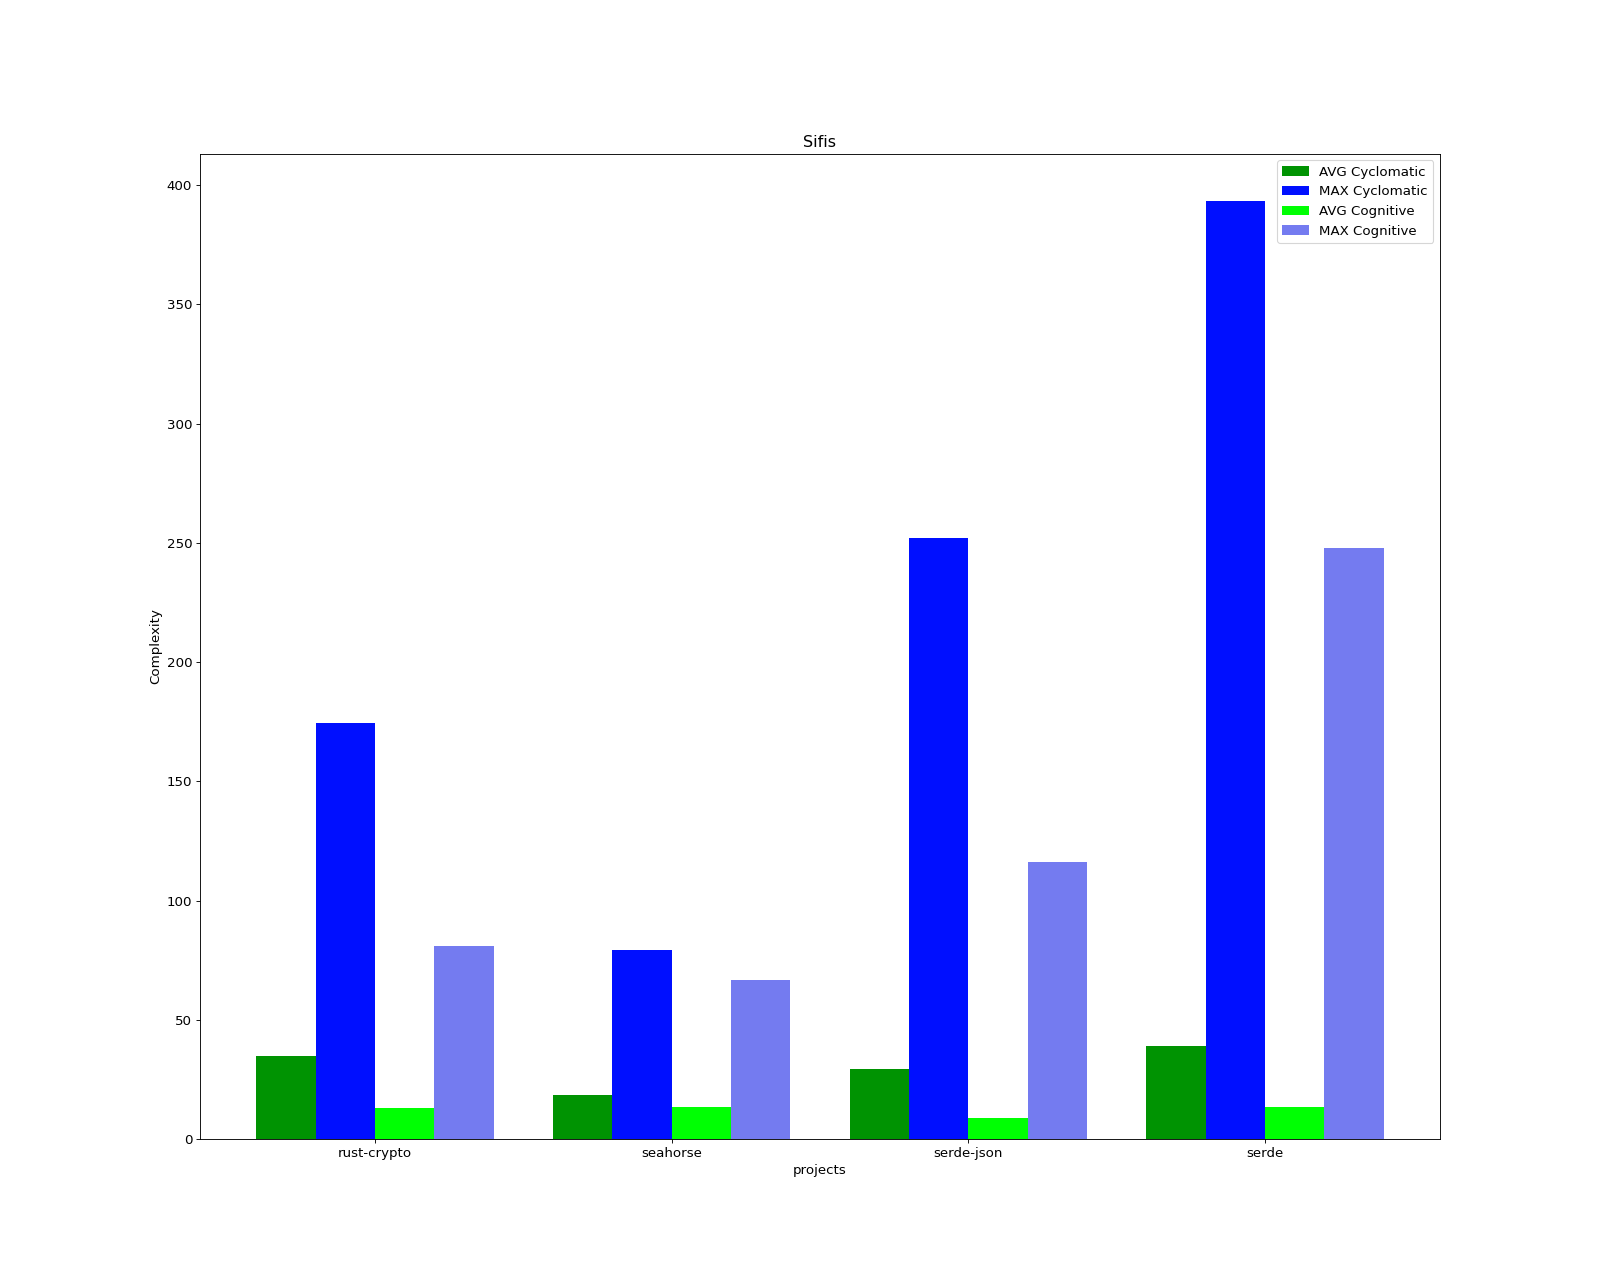
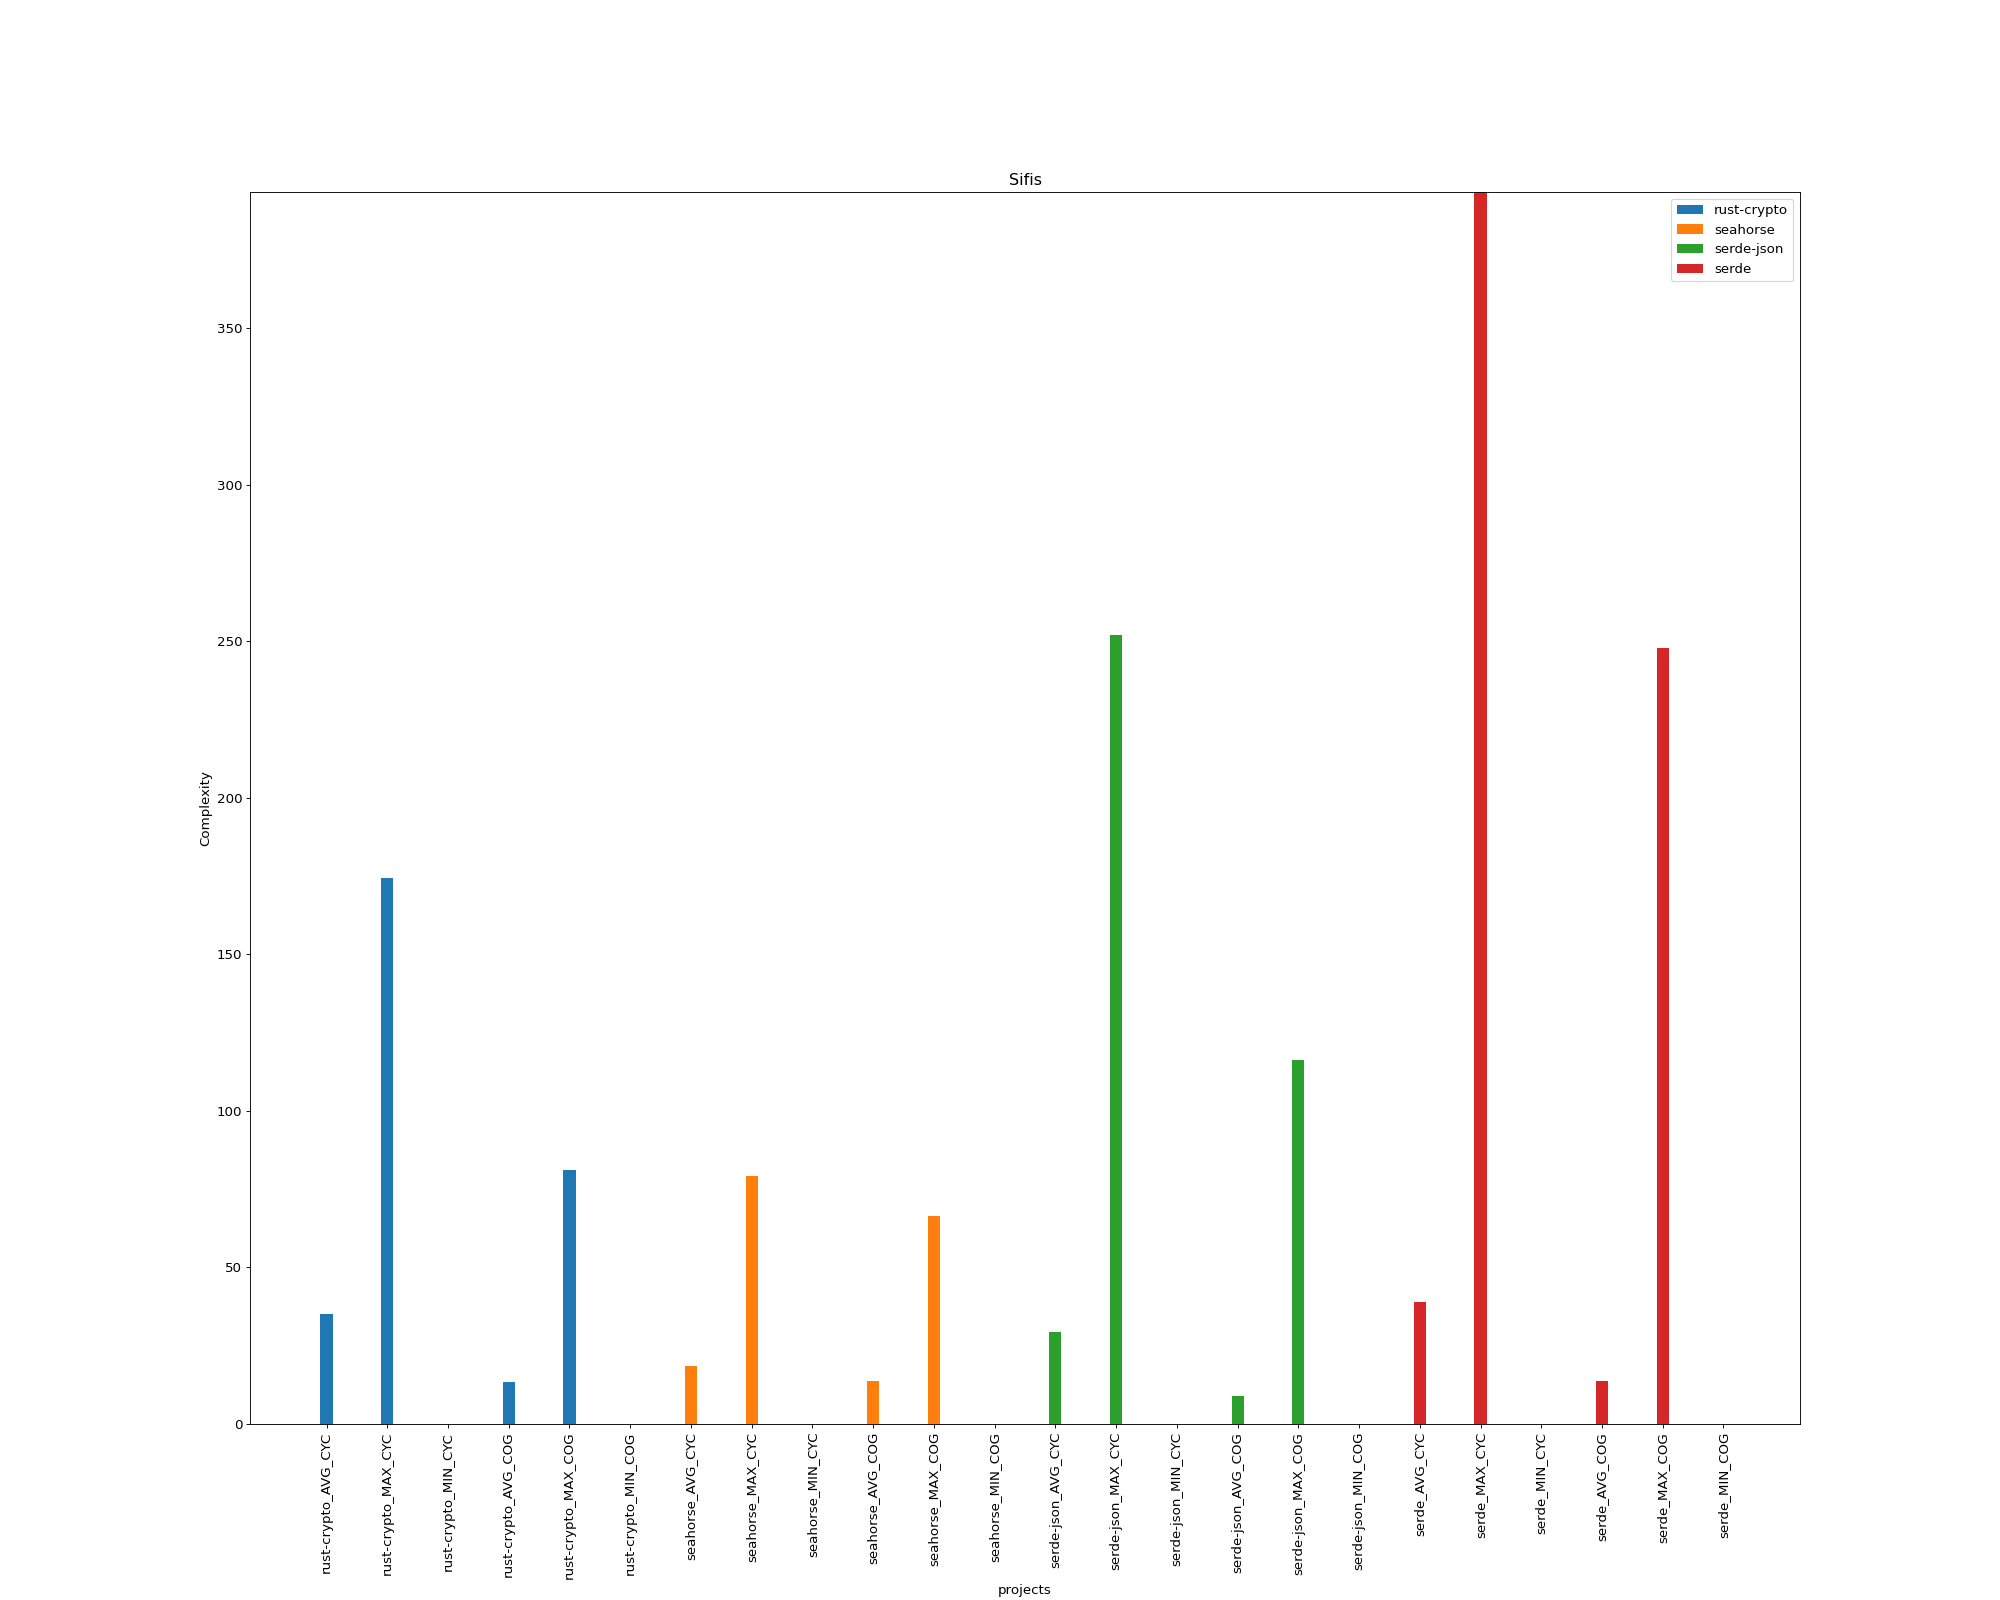
Modified README.md, changed some graphs , add complexity graph

diff --git a/static-analysis.py b/static-analysis.py
@@ -6,26 +6,29 @@ import matplotlib.pyplot as plt
 from matplotlib.pyplot import figure
 
 
-
-def print_plot(x,vec,img_path,title): 
+#avg_cyc[, avg_cogn, max_cyc, max_cogn,min_cyc, min_cogn
+def print_bar_plot(x,vec,img_path,title): 
    
+    V_axis = []
     X_axis = np.arange(len(x))
-    avg_cyc= []
-    max_cyc= []
-    avg_cogn= []
-    max_cogn= []
+    Y_axis=[]
+    for v in x:
+        V_axis.append([v+'_AVG_CYC',v+'_MAX_CYC',v+'_MIN_CYC',v+'_AVG_COG',v+'_MAX_COG',v+'_MIN_COG'])
+    min_y=float("inf")
+    max_y=0
     for rows in vec:
-        avg_cyc.append(rows[0])
-        max_cyc.append(rows[2])
-        avg_cogn.append(rows[1])
-        max_cogn.append(rows[3])
+        Y_axis.append([rows[0],rows[2],rows[4],rows[1],rows[3],rows[5]])
+    for y in Y_axis:
+        for value in y:
+            min_y=min(min_y,value)
+            max_y=max(max_y,value)
+    min_y = min_y-0.05*min_y
     plt.rcParams.update({'font.size': 12})
-    figure(figsize=(20,16), dpi=80)
-    plt.bar(X_axis - 0.3, avg_cyc, 0.2, label = 'AVG Cyclomatic', color='#009302')
-    plt.bar(X_axis - 0.1, max_cyc, 0.2, label = 'MAX Cyclomatic', color='#000FFF')
-    plt.bar(X_axis + 0.1, avg_cogn, 0.2, label = 'AVG Cognitive', color='#00FF03')
-    plt.bar(X_axis + 0.3, max_cogn, 0.2, label = 'MAX Cognitive', color='#747BF0')
-    plt.xticks(X_axis, x)
+    figure(figsize=(25,20), dpi=80)
+    for i in range(0,len(x)):
+        plt.bar(V_axis[i], Y_axis[i], 0.2, label = x[i])
+    plt.xticks(rotation='vertical')
+    plt.ylim(min_y,max_y)
     plt.xlabel("projects")
     plt.ylabel("Complexity")
     plt.title(title)
@@ -38,9 +41,10 @@ def static_analysis(path_to_csvs,image_name):
     files = []
     avg_cyc= []
     max_cyc= []
+    min_cyc= []
     avg_cogn= []
     max_cogn= []
-    n_complex= []
+    min_cogn= []
     for file in os.listdir(path_to_csvs):
         if file.endswith(".csv"):
             files.append(file)
@@ -61,8 +65,12 @@ def static_analysis(path_to_csvs,image_name):
                         max_cyc.append([float(row[1]),float(row[2]),float(row[3]),float(row[4])])
                      else:
                         max_cogn.append([float(row[1]),float(row[2]),float(row[3]),float(row[4])])
-                if row[0] == "TOTAL COMPLEX FILES":
-                    n_complex.append(float(row[1]))
+                if row[0] == 'MIN':
+                     if file.split("_")[1] == "cyc.csv":
+                        min_cyc.append([float(row[1]),float(row[2]),float(row[3]),float(row[4])])
+                     else:
+                        min_cogn.append([float(row[1]),float(row[2]),float(row[3]),float(row[4])])
+                        
     x=[]
     for f in files:
         no_ext_f = f[:len(f) - 4]
@@ -75,14 +83,14 @@ def static_analysis(path_to_csvs,image_name):
     crap=[]
     skunk=[]
     for i in range(len(avg_cyc)):
-        sifis.append( [avg_cyc[i][0], avg_cogn[i][0], max_cyc[i][0], max_cogn[i][0]])
-        sifis_q.append( [avg_cyc[i][1], avg_cogn[i][1], max_cyc[i][1], max_cogn[i][1]])
-        crap.append( [avg_cyc[i][2], avg_cogn[i][2], max_cyc[i][2], max_cogn[i][2]])
-        skunk.append( [avg_cyc[i][3], avg_cogn[i][3], max_cyc[i][3], max_cogn[i][3]])
-    print_plot(x,sifis,'./img/Static/'+image_name+'_sifis.png',"Sifis")
-    print_plot(x,sifis_q,'./img/Static/'+image_name+'_sifis_quantized.png',"Sifis Quantized")
-    print_plot(x,crap,'./img/Static/'+image_name+'_crap.png',"CRAP")
-    print_plot(x,skunk,'./img/Static/'+image_name+'_skunk.png',"SkunkScore")
+        sifis.append( [avg_cyc[i][0], avg_cogn[i][0], max_cyc[i][0], max_cogn[i][0],min_cyc[i][0], min_cogn[i][0]])
+        sifis_q.append( [avg_cyc[i][1], avg_cogn[i][1], max_cyc[i][1], max_cogn[i][1],min_cyc[i][1], min_cogn[i][1]])
+        crap.append( [avg_cyc[i][2], avg_cogn[i][2], max_cyc[i][2], max_cogn[i][2],min_cyc[i][2], min_cogn[i][2]])
+        skunk.append( [avg_cyc[i][3], avg_cogn[i][3], max_cyc[i][3], max_cogn[i][3],min_cyc[i][3], min_cogn[i][3]])
+    print_bar_plot(x,sifis,'./img/Static/'+image_name+'_sifis.png',"Sifis")
+    print_bar_plot(x,sifis_q,'./img/Static/'+image_name+'_sifis_quantized.png',"Sifis Quantized")
+    print_bar_plot(x,crap,'./img/Static/'+image_name+'_crap.png',"CRAP")
+    print_bar_plot(x,skunk,'./img/Static/'+image_name+'_skunk.png',"SkunkScore")
     return
 
 static_analysis("./StaticAnalysis","static_analysis")

diff --git a/time-analysis.py b/time-analysis.py
@@ -17,34 +17,45 @@ def print_plot(versions,vec,img_path):
     plt.rcParams.update({'font.size': 12})
     figure, axis = plt.subplots(2, 2)
     figure.set_size_inches(24, 20)
-    axis[0, 0].plot(versions, sifis, "r-")
-    axis[0, 0].bar(versions, sifis, width=0.5)
+    axis[0, 0].plot(versions, sifis)
+    axis[0, 0].scatter(versions, sifis,color="r")
     axis[0, 0].set_title("Sifis Plain")
     axis[0, 0].set_xlabel('versions')
-    axis[0, 1].plot(versions, sifis_q, "r-")
-    axis[0, 1].bar(versions, sifis_q, width=0.5)
+    axis[0, 1].plot(versions, sifis_q)
+    axis[0, 1].scatter(versions, sifis_q,color="r")
     axis[0, 1].set_title("Sifis Quantized")
     axis[0, 1].set_xlabel('versions')
-    axis[1, 0].plot(versions, crap, "r-")
-    axis[1, 0].bar(versions, crap, width=0.5)
+    axis[1, 0].plot(versions, crap)
+    axis[1, 0].scatter(versions, crap,color="r")
     axis[1, 0].set_title("CRAP")
     axis[1, 0].set_xlabel('versions')
-    axis[1, 1].plot(versions, skunk, "r-")
-    axis[1, 1].bar(versions, skunk, width=0.5)
+    axis[1, 1].plot(versions, skunk)
+    axis[1, 1].scatter(versions, skunk,color="r")
     axis[1, 1].set_title("SkunkScore")
     axis[1, 1].set_xlabel('versions')
     plt.savefig(img_path)
     plt.cla()
     return
 
-def plot_complex(versions,vec,img_path):
+def plot_complex(versions,complex,total,img_path):
     plt.rcParams.update({'font.size': 12})
-    figure(figsize=(20,16), dpi=80)
-    plt.plot(versions, vec, "r-")
-    plt.bar(versions, vec, 0.5)
+    figure(figsize=(30,24), dpi=80)
+    min_y=float("inf")
+    max_y=0
+    for y in total:
+            min_y=min(min_y,y)
+            max_y=max(max_y,y)
+    plt.bar(versions, total, 0.5, label="Total number of files")
+    plt.bar(versions, complex, 0.5,color="r", label="Total number of complex files")
+    if(min_y-5<0):
+        min_y=0
+    else:
+        min_y=min_y-5
+    plt.ylim(min_y,max_y)
     plt.xlabel("versions")
     plt.ylabel("Number of complex files")
-    plt.title("Number of complex files")
+    plt.title("Complex files")
+    plt.legend()
     plt.savefig(img_path)
     plt.cla()
     return
@@ -53,31 +64,41 @@ def time_analysis(path_to_csvs, image_name) :
     files = []
     avg= []
     max= []
-    n_complex =[]
+    n_complex = []
+    n_files = []
     for file in os.listdir(path_to_csvs):
         if file.endswith(".csv"):
             files.append(file)
 
     files.sort()
     for file in files:
+        cf =0
+        tf =0
         with open(path_to_csvs+"/"+file) as data:
             csvreader = csv.reader(data)
             header = next(csvreader)
             for row in csvreader:
+                if row[6] == 'true':
+                    cf+=1
+                    tf+=1
+                if row[0] != 'AVG' and row[0] != 'MAX' and row[6]=='false':
+                    tf+=1
                 if row[0] == 'AVG':
                     avg.append([float(row[1]),float(row[2]),float(row[3]),float(row[4])])
                 if row[0] == 'MAX':
                     max.append([float(row[1]),float(row[2]),float(row[3]),float(row[4])])
-                if row[0] == "TOTAL COMPLEX FILES":
-                    n_complex.append(float(row[1]))
+                    break
+        n_complex.append(cf)
+        n_files.append(tf)
     versions=[]
+
     for f in files:
         no_ext_f = f[:len(f) - 4]
         versions.append("-".join(no_ext_f.split("-")[1:]))
 
     print_plot(versions,avg,'./img/Time/'+image_name+'_avg.png')
     print_plot(versions,max,'./img/Time/'+image_name+'_max.png')
-    plot_complex(versions,n_complex,'./img/Time/'+image_name+'_complex_files.png')
+    plot_complex(versions,n_complex,n_files,'./img/Time/'+image_name+'_complex_files.png')
     return
 
 time_analysis("./TimeAnalysis/rust-analyzer","rust-analyzer")

diff --git a/README.md b/README.md
@@ -4,6 +4,13 @@ This repository is used to store all the csv file avout static and time analysis
 For time analysis a sequence of versions of various repo are considered, and the resulting graphs are stored in the img folder in the .png format.
 For now the plot create are the avarage , minimum and maximum values  for the four metrics in wcc: Sifis plain , Sifis quantized, CRAP and SkunkScore.
 
+All the graphs will be printed in the img directory:
+- All graphs abount static analysis will be printed in img/Static
+- All graphs abount time analysis will be printed in img/Time
+
+In Static  you will found a graph for each metric, in each graph a bar diagram is showed with all the minimum , maximum and average values for that metric for each project analyzed
+In Time there will be graphs for each project analyzed , each project will have a multiple images: one that show the number of complex files and total files present in the project in each version and then two images that have 4 graphs in it the rapresent the variation of minimum and avarage between different version of the project for all four differet metrics analyzed.
+
 ## Usage
 
 Run the project with the following command:
